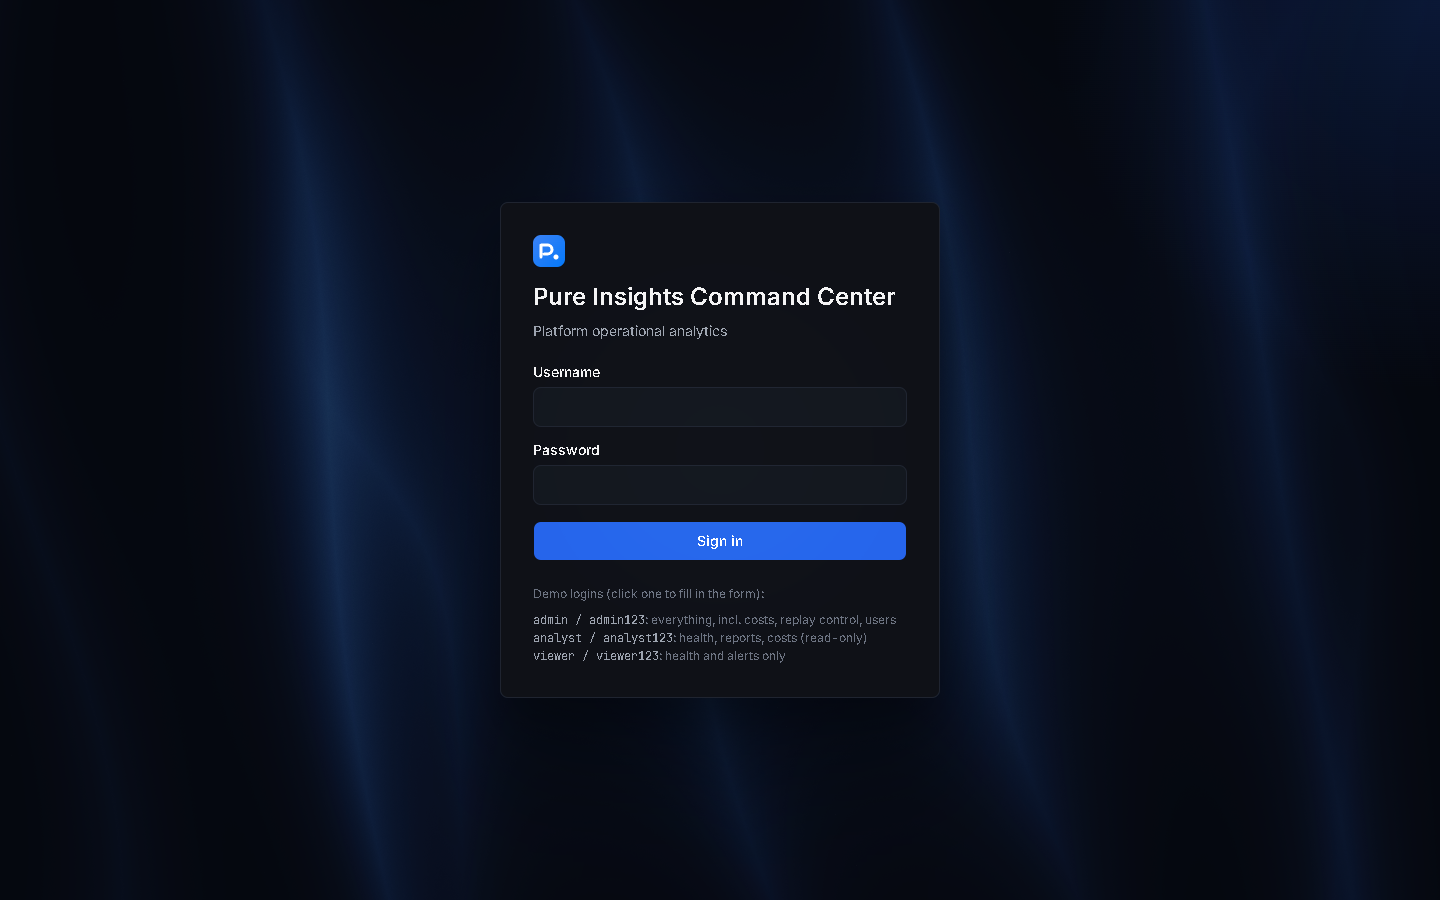
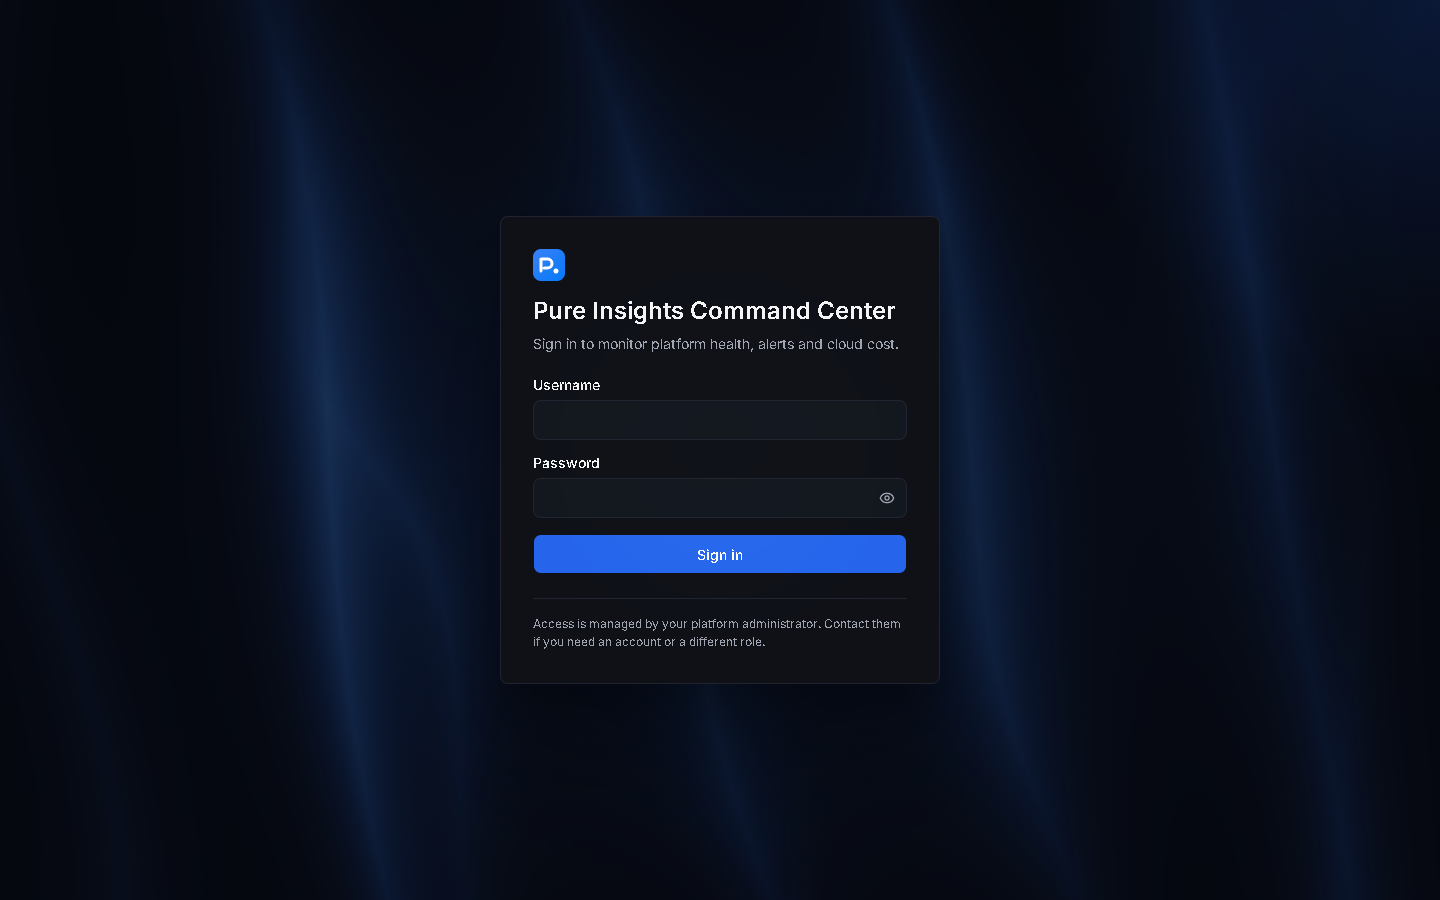
Make the login page production-ready
- Remove the account list and fill-in buttons from the login page; it is
  now a plain username/password form with a show/hide password toggle,
  a Caps Lock warning and an administrator note
- Document the built-in accounts in the README under "Sign-in accounts";
  in development the API also prints the usernames when it starts
- Use "built-in accounts" wording in the docs, users.js and the Users page
- Refresh the login and users screenshots

diff --git a/frontend/src/pages/Login.jsx b/frontend/src/pages/Login.jsx
@@ -1,11 +1,12 @@
 /**
  * Login page: animated fibres behind a gently tilting card (both switch off
- * when the OS asks for reduced motion). The demo logins only fill in the
- * form; you still press Sign in.
+ * when the OS asks for reduced motion). A plain username/password form with a
+ * show-password toggle and a Caps Lock warning. Accounts are not listed here;
+ * they are documented in the README.
  */
 import { useState } from 'react';
 import { Navigate, useLocation, useNavigate } from 'react-router-dom';
-import { CircleAlert, Info } from 'lucide-react';
+import { CircleAlert, Eye, EyeOff, Info, TriangleAlert } from 'lucide-react';
 import { Button } from '@/components/ui/button';
 import { CometCard } from '@/components/ui/comet-card';
 import { Input } from '@/components/ui/input';
@@ -13,18 +14,14 @@ import { Label } from '@/components/ui/label';
 import GhostFibers from '../components/GhostFibers';
 import { useAuth } from '../auth';
 
-const DEMO_USERS = [
-  { username: 'admin', password: 'admin123', note: 'everything, incl. costs, replay control, users' },
-  { username: 'analyst', password: 'analyst123', note: 'health, reports, costs (read-only)' },
-  { username: 'viewer', password: 'viewer123', note: 'health and alerts only' },
-];
-
 export default function Login() {
   const { user, login, notice } = useAuth();
   const navigate = useNavigate();
   const location = useLocation();
   const [username, setUsername] = useState('');
   const [password, setPassword] = useState('');
+  const [showPassword, setShowPassword] = useState(false);
+  const [capsLock, setCapsLock] = useState(false);
   const [error, setError] = useState(null);
   const [busy, setBusy] = useState(false);
 
@@ -44,6 +41,9 @@ export default function Login() {
     }
   };
 
+  // getModifierState tells whether Caps Lock is on at the moment of the key event.
+  const checkCapsLock = (event) => setCapsLock(Boolean(event.getModifierState?.('CapsLock')));
+
   return (
     <div className="relative flex min-h-svh items-center justify-center overflow-hidden px-4 py-8">
       {/* Background only: fixed behind the card, never receives clicks. */}
@@ -57,7 +57,7 @@ export default function Login() {
           <div className="grid gap-2">
             <img src="/favicon.svg" alt="" className="mb-2 size-8" />
             <h1 className="text-2xl leading-[1.2] font-semibold">Pure Insights Command Center</h1>
-            <p className="text-sm text-muted-foreground">Platform operational analytics</p>
+            <p className="text-sm text-muted-foreground">Sign in to monitor platform health, alerts and cloud cost.</p>
           </div>
 
           {notice && (
@@ -70,11 +70,49 @@ export default function Login() {
           <form onSubmit={submit} className="grid gap-4">
             <div className="grid gap-2">
               <Label htmlFor="username">Username</Label>
-              <Input id="username" className="h-10" value={username} onChange={(e) => setUsername(e.target.value)} autoComplete="username" autoFocus required />
+              <Input
+                id="username"
+                className="h-10"
+                value={username}
+                onChange={(e) => { setUsername(e.target.value); setError(null); }}
+                autoComplete="username"
+                autoCapitalize="none"
+                spellCheck={false}
+                autoFocus
+                required
+              />
             </div>
             <div className="grid gap-2">
               <Label htmlFor="password">Password</Label>
-              <Input id="password" type="password" className="h-10" value={password} onChange={(e) => setPassword(e.target.value)} autoComplete="current-password" required />
+              <div className="relative">
+                <Input
+                  id="password"
+                  type={showPassword ? 'text' : 'password'}
+                  className="h-10 pr-10"
+                  value={password}
+                  onChange={(e) => { setPassword(e.target.value); setError(null); }}
+                  onKeyDown={checkCapsLock}
+                  onKeyUp={checkCapsLock}
+                  onBlur={() => setCapsLock(false)}
+                  autoComplete="current-password"
+                  required
+                />
+                <button
+                  type="button"
+                  onClick={() => setShowPassword((v) => !v)}
+                  aria-label={showPassword ? 'Hide password' : 'Show password'}
+                  aria-pressed={showPassword}
+                  className="absolute top-1/2 right-2 flex size-6 -translate-y-1/2 items-center justify-center rounded-sm text-muted-foreground hover:text-foreground focus-visible:ring-3 focus-visible:ring-ring/50 focus-visible:outline-none"
+                >
+                  {showPassword ? <EyeOff className="size-4" aria-hidden="true" /> : <Eye className="size-4" aria-hidden="true" />}
+                </button>
+              </div>
+              {capsLock && (
+                <p className="flex items-center gap-2 text-xs text-warning" role="status">
+                  <TriangleAlert className="size-4 shrink-0" aria-hidden="true" />
+                  Caps Lock is on
+                </p>
+              )}
             </div>
             {error && (
               <div role="alert" className="flex gap-2 text-sm text-critical">
@@ -87,23 +125,9 @@ export default function Login() {
             </Button>
           </form>
 
-          <div className="grid gap-2 text-xs text-subtle">
-            <div>Demo logins (click one to fill in the form):</div>
-            <ul>
-              {DEMO_USERS.map((u) => (
-                <li key={u.username}>
-                  <button
-                    type="button"
-                    onClick={() => { setUsername(u.username); setPassword(u.password); }}
-                    className="rounded-sm font-mono text-muted-foreground underline-offset-4 hover:text-foreground hover:underline focus-visible:ring-3 focus-visible:ring-ring/50 focus-visible:outline-none"
-                  >
-                    {u.username} / {u.password}
-                  </button>
-                  {': '}{u.note}
-                </li>
-              ))}
-            </ul>
-          </div>
+          <p className="border-t border-border pt-4 text-xs text-muted-foreground">
+            Access is managed by your platform administrator. Contact them if you need an account or a different role.
+          </p>
         </div>
       </CometCard>
     </div>

diff --git a/backend/src/server.js b/backend/src/server.js
@@ -9,6 +9,7 @@ const config = require('./config');
 const { createState } = require('./state');
 const { createApp } = require('./app');
 const { attachAlertSocket, WS_PATH } = require('./ws');
+const { USERS } = require('./users');
 
 function start() {
   const state = createState(config);
@@ -36,6 +37,11 @@ function start() {
     }
     if (config.jwtSecretGenerated) {
       console.log('[api] note: JWT_SECRET not set, using a random secret (logins reset when the server restarts)');
+    }
+    // Outside production, point whoever started the server to the built-in accounts.
+    // Only usernames are printed; the passwords are in README.md ("Sign-in accounts").
+    if (process.env.NODE_ENV !== 'production') {
+      console.log(`[auth] built-in accounts: ${USERS.map((u) => `${u.username} (${u.role})`).join(', ')}; passwords in README.md, "Sign-in accounts"`);
     }
   });
 

diff --git a/backend/src/users.js b/backend/src/users.js
@@ -1,10 +1,10 @@
 /**
  * users.js
- * Hard-coded demo users. Fine for a case study; a real deployment would use
- * the company identity provider (SSO / OAuth) instead.
+ * The built-in accounts, one per role. A real deployment would use the
+ * company identity provider (SSO / OAuth) instead.
  *
- * Only bcrypt HASHES are stored, never the passwords themselves. The demo
- * passwords are listed in README.md:
+ * Only bcrypt HASHES are stored, never the passwords themselves. The
+ * passwords are listed in README.md ("Sign-in accounts"):
  *   admin / admin123, analyst / analyst123, viewer / viewer123
  */
 const USERS = [

diff --git a/frontend/src/pages/Users.jsx b/frontend/src/pages/Users.jsx
@@ -24,7 +24,7 @@ export default function Users() {
   const users = useApi('/users');
   return (
     <>
-      <PageHead title="Users and roles" subtitle="Demo accounts. Permissions are enforced by the API on every request; the menu only hides what a role cannot open." />
+      <PageHead title="Users and roles" subtitle="Accounts and what each role may do. Permissions are enforced by the API on every request; the menu only hides what a role cannot open." />
       <PageState {...users} skeleton={<TableSkeleton rows={3} />}>
         {users.data && (
           <Section flush>

diff --git a/README.md b/README.md
@@ -33,14 +33,14 @@ npm run install:all
 npm run dev
 ```
 
-Then open **http://localhost:5173** and sign in with one of the demo accounts below.
+Then open **http://localhost:5173** and sign in with one of the accounts below.
 
 - `npm run install:all` installs the root tool (`concurrently`), the backend and the frontend.
 - `npm run dev` starts the API on port 4000 and the React app on port 5173 together. Press Ctrl+C to stop both.
 - No `.env` is needed. Every setting has a default (see [Configuration](#configuration)).
 - Single-server mode: `npm start` builds the React app and serves everything from **http://127.0.0.1:4000**.
 
-### Demo logins
+### Sign-in accounts
 
 | Username | Password | Role | Can see |
 |---|---|---|---|
@@ -48,8 +48,10 @@ Then open **http://localhost:5173** and sign in with one of the demo accounts be
 | `analyst` | `analyst123` | analyst | Overview, Live Alerts, Reports, Orphaned, Costs, Data Quality (read-only) |
 | `viewer` | `viewer123` | viewer | Overview (no cost figures), Live Alerts, Data Quality |
 
-The login page has buttons that fill these in. Passwords are stored only as bcrypt hashes
-(`backend/src/users.js`). Hard-coded demo users are fine for a case study; production would use SSO.
+The login page does not list these accounts; they are documented here, and in development the API
+prints the usernames when it starts. Passwords are stored only as bcrypt hashes (`backend/src/users.js`).
+Built-in accounts suit an evaluation; production would sign people in through the company's identity
+provider (SSO).
 
 ### Things to try
 1. Sign in as **admin**. Alerts start streaming at once (the telemetry replay plays the CSV as live data); CRITICAL ones pop up.
@@ -254,7 +256,7 @@ Details and counts are in [docs/DATA_QUALITY.md](docs/DATA_QUALITY.md).
     Findings show the method working, not real business conclusions.
 
 ### Security and access
-14. **Demo users are hard-coded** (`admin`, `analyst`, `viewer`) with bcrypt-hashed passwords, which is fine for a
+14. **The three accounts are built in** (`admin`, `analyst`, `viewer`) with bcrypt-hashed passwords, which is fine for a
     case study. Production would use the company identity provider (SSO/OIDC).
 15. **`bcryptjs` instead of `bcrypt`**: same algorithm, pure JavaScript, so `npm install` never needs a C++ build
     toolchain on Windows.

diff --git a/docs/API_SPEC.md b/docs/API_SPEC.md
@@ -65,7 +65,7 @@ Access is checked **on the server** for every route. The UI hides pages as a con
 | `replay:control` | ✅ | ❌ | ❌ | `POST /api/replay/start`, `/pause`, `/reset` |
 | `users:read` | ✅ | ❌ | ❌ | `GET /api/users` |
 
-Demo users: `admin / admin123`, `analyst / analyst123`, `viewer / viewer123`.
+Built-in accounts: `admin / admin123`, `analyst / analyst123`, `viewer / viewer123`.
 
 ---
 
